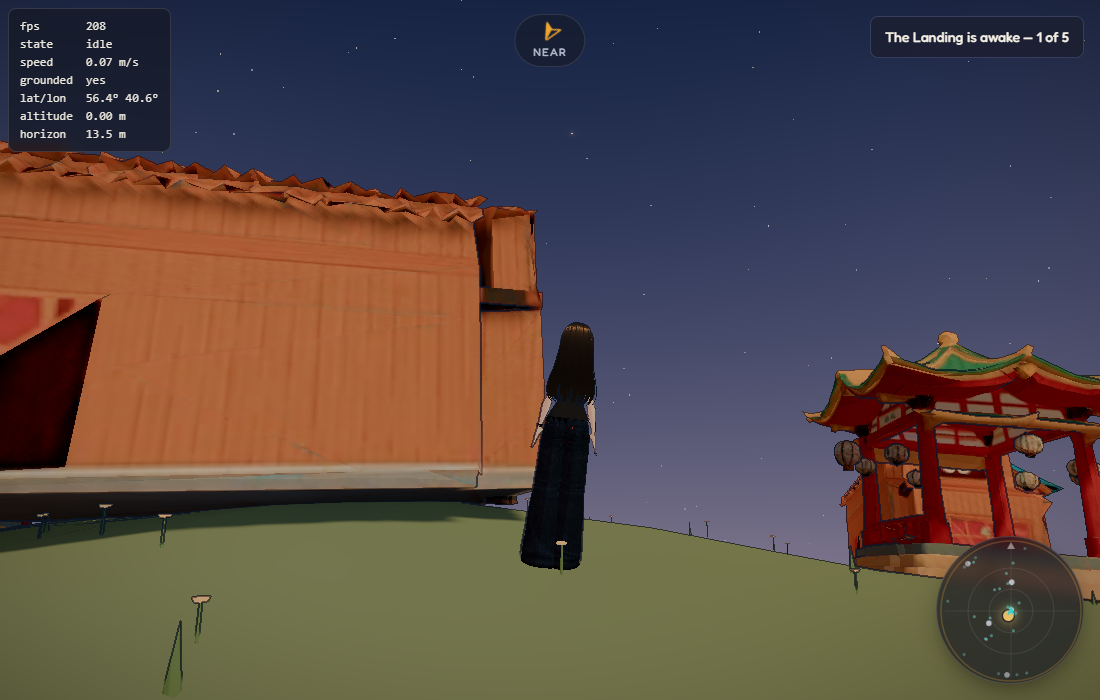
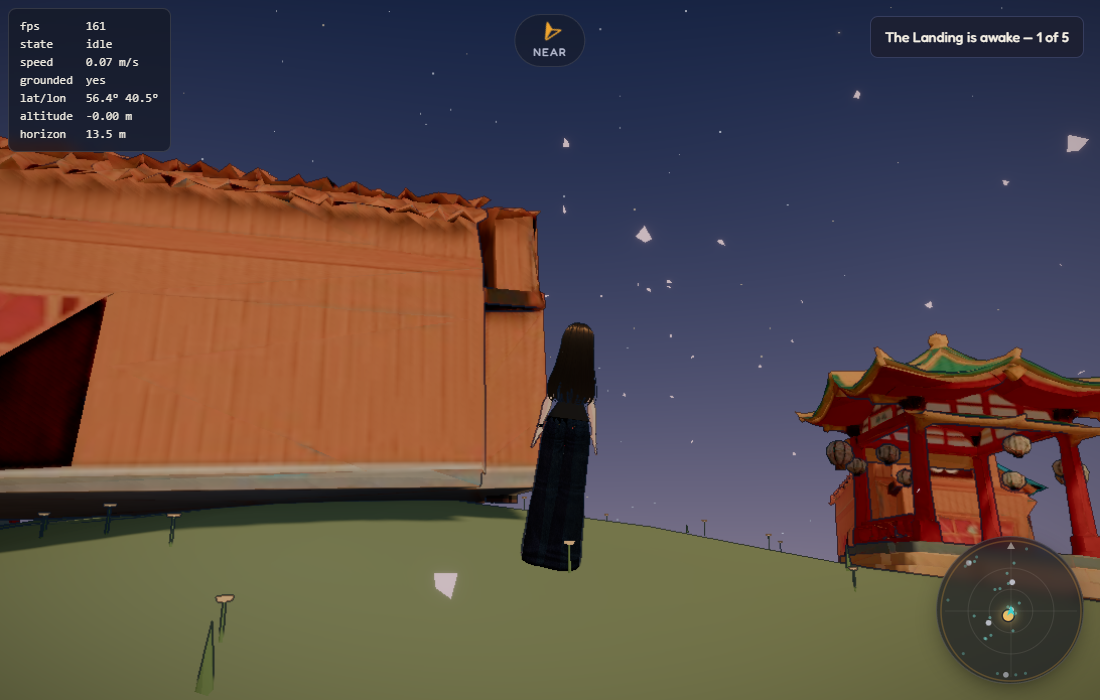
feat: mist gathers in the low ground
Driven by the camera's altitude rather than by per-pixel height, and that is a
deliberate trade worth stating plainly.

Real height fog needs the fog factor computed from each fragment's world
position, which on a sphere means injecting into every material in the scene —
and this world has toon materials, instanced props, imported models and a
custom sky dome, so that is a shader modification in six places that all have
to agree, and stay agreeing.

What the player actually *feels* is "walking down into a valley fills the air".
Scaling the existing linear fog by altitude gives exactly that in two lines,
works with every material automatically including anything imported later, and
costs nothing. What it cannot do is show a bank of mist lying in a hollow seen
from the hill above — that is the real limitation, and it is worth the trade
until a shot needs that view.

Measured: at the waterline the fog runs 6.4 m to 32.2 m; on the planet's
highest ground, 18.2 m to 90.9 m. Nearly three times the visibility for
climbing four and a half metres.

Two details that would each have been a bug:

- The illumination-driven range is stored rather than written straight to the
  fog, because the per-frame altitude scaling would otherwise be overwriting
  its own input — the classic way a modulation quietly becomes a runaway.
- The response is smoothed hard. Fog range is a whole-screen property, and
  letting it track altitude directly makes a walk over uneven ground pulse the
  entire image.

diff --git a/src/game/scenes/PlanetScene.ts b/src/game/scenes/PlanetScene.ts
@@ -9,7 +9,7 @@ import type { MusicDirector } from '@engine/audio/MusicDirector';
 import type { IScene } from '@engine/scene/IScene';
 import type { LoadedCharacter } from '@engine/character/CharacterFactory';
 import { shouldBeVisible, horizonDistance } from '@core/math/spherical';
-import { PLANET_RADIUS, PLAYER_HEIGHT } from '@config/constants';
+import { PLANET_RADIUS, PLAYER_HEIGHT, SEA_LEVEL_RADIUS } from '@config/constants';
 
 import { PlanetTerrain } from '@game/world/PlanetTerrain';
 import { DistrictRegistry } from '@game/world/DistrictRegistry';
@@ -148,6 +148,11 @@ export class PlanetScene implements IScene {
   private menuOrbit = 0;
   /** Ground fog, parked while the orbital menu shot is on screen. */
   private gameFog: THREE.Fog | null = null;
+  /** Fog range before altitude scales it. See updateValleyFog. */
+  private fogBaseNear = 15;
+  private fogBaseFar = 76;
+  /** Smoothed 0.42..1.2 multiplier on that range. */
+  private fogOpenness = 1;
 
   constructor(
     private readonly renderer: RendererService,
@@ -352,6 +357,7 @@ export class PlanetScene implements IScene {
     this.cats?.update(dt, this.player.object3D.position);
     this.updateFireflies(dt);
     this.updatePetals(dt);
+    this.updateValleyFog(dt);
     this.updateParcelVisual(dt);
     this.updateLighthouse();
     this.updateSky();
@@ -1031,9 +1037,14 @@ export class PlanetScene implements IScene {
       // whole surface out to a flat pale sheet, which is what it did.
       this.skydome.horizonColour(fog.color, fraction).multiplyScalar(0.62);
       // Visibility opens up as the world lights: dusk hides the far side.
+      //
+      // Stored rather than written straight to the fog, because `updateValleyFog`
+      // scales these every frame and would otherwise be overwriting its own
+      // input — the classic way a per-frame modulation quietly becomes a
+      // runaway.
       const horizon = horizonDistance(PLANET_RADIUS, PLAYER_HEIGHT);
-      fog.near = horizon * (1.1 + fraction * 0.5);
-      fog.far = horizon * (5.5 + fraction * 2.5);
+      this.fogBaseNear = horizon * (1.1 + fraction * 0.5);
+      this.fogBaseFar = horizon * (5.5 + fraction * 2.5);
     }
 
     if (this.stars) {
@@ -1309,6 +1320,42 @@ export class PlanetScene implements IScene {
    * toward the wood is walking *into* the petals, which is the kind of thing
    * that makes a place feel like somewhere rather than like a setting.
    */
+  /**
+   * Mist gathers in the low ground.
+   *
+   * Driven by the player's altitude rather than by per-pixel height, and that
+   * is a deliberate trade worth stating. Real height fog needs the fog factor
+   * computed from each fragment's world Y, which on a sphere means every
+   * material in the scene getting a shader injection — and this world has toon
+   * materials, instanced props, imported models and a custom sky, so that is a
+   * modification in six places that all have to agree.
+   *
+   * What the player actually *feels* is "walking down into a valley fills the
+   * air". Scaling the existing linear fog by the camera's own altitude gives
+   * exactly that for two lines, works with every material automatically, and
+   * costs nothing. What it cannot do is show a bank of mist lying in a hollow
+   * seen from above — that is the real limitation, and it is worth the trade
+   * until something needs the view from the hill.
+   *
+   * Smoothed hard, because fog range is a whole-screen property: let it track
+   * altitude directly and a walk over uneven ground makes the entire image
+   * pulse.
+   */
+  private updateValleyFog(dt: number): void {
+    const fog = this.world.scene.fog as THREE.Fog | null;
+    if (!fog) return;
+
+    const altitude = this.controller.smoothedPosition.length() - SEA_LEVEL_RADIUS;
+    // Thickest at the waterline, gone by four metres up.
+    const openness = THREE.MathUtils.smoothstep(altitude, 0.2, 4.2);
+    const wanted = 0.42 + openness * 0.78;
+
+    this.fogOpenness += (wanted - this.fogOpenness) * (1 - Math.exp(-1.6 * dt));
+
+    fog.near = this.fogBaseNear * this.fogOpenness;
+    fog.far = this.fogBaseFar * this.fogOpenness;
+  }
+
   private updatePetals(dt: number): void {
     const position = this.controller.smoothedPosition;
     const wood = this.districts.all.find((d) => d.def.id === 'bramblewood');
